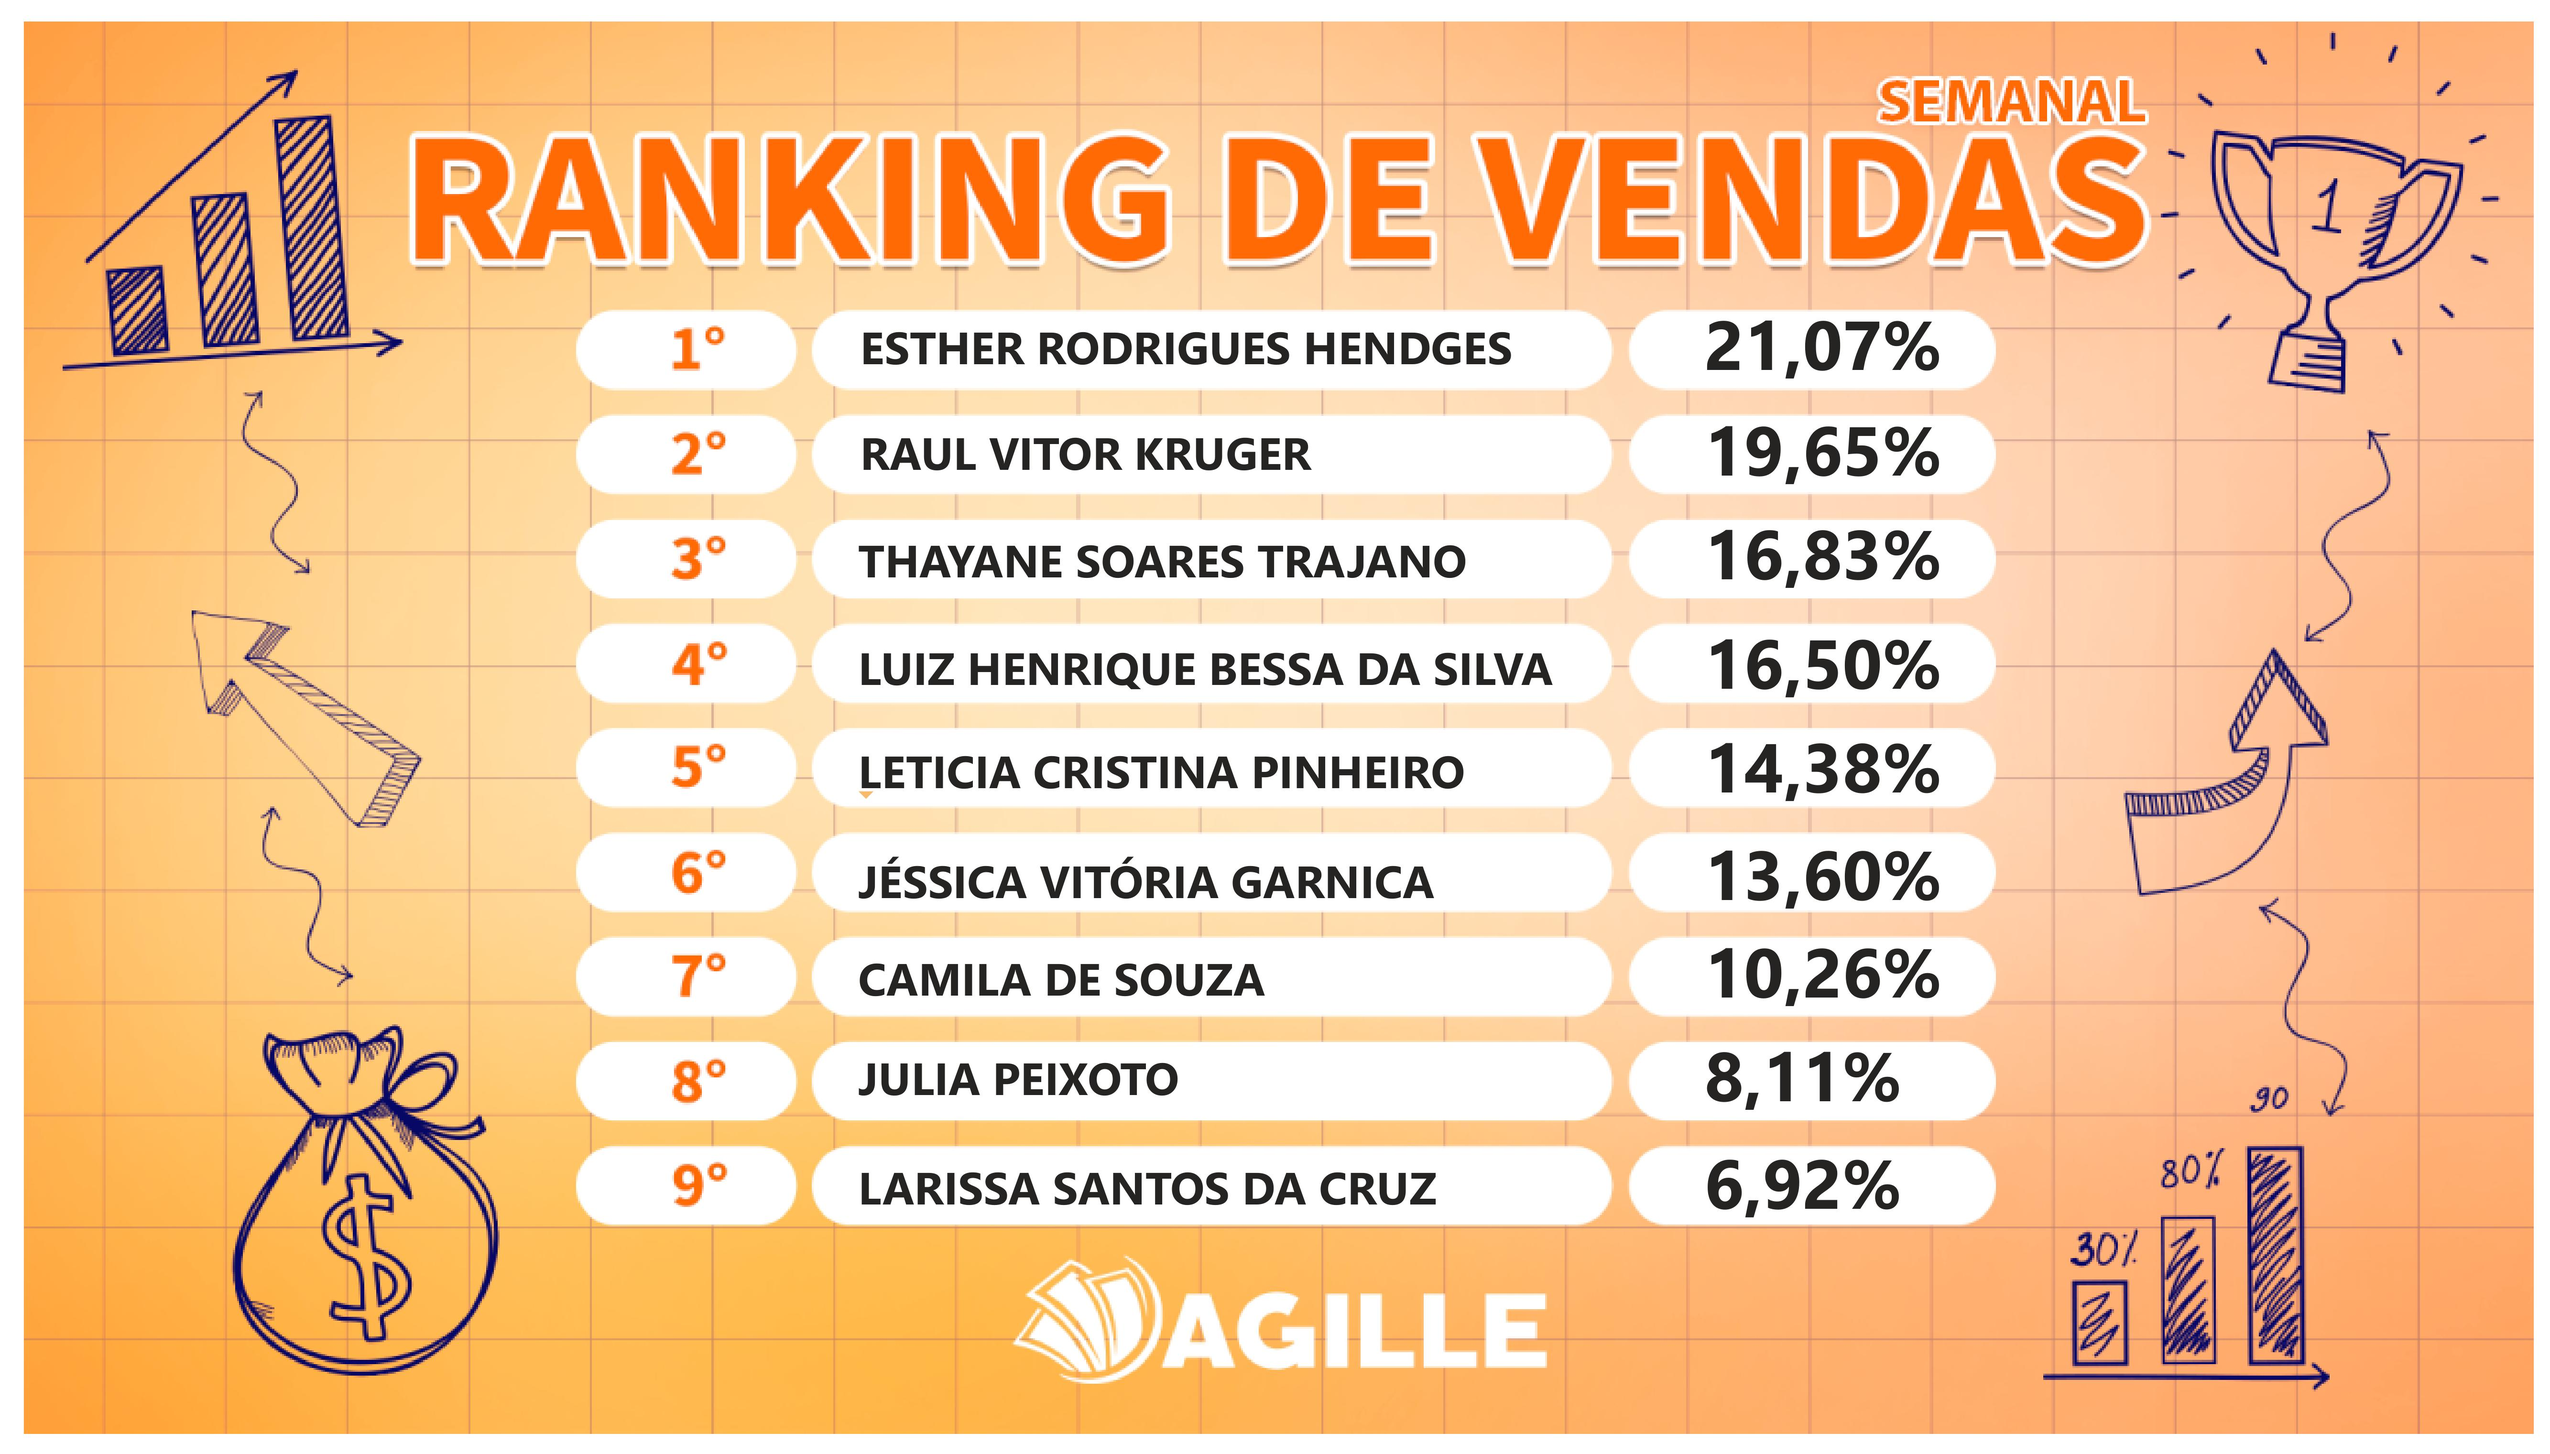
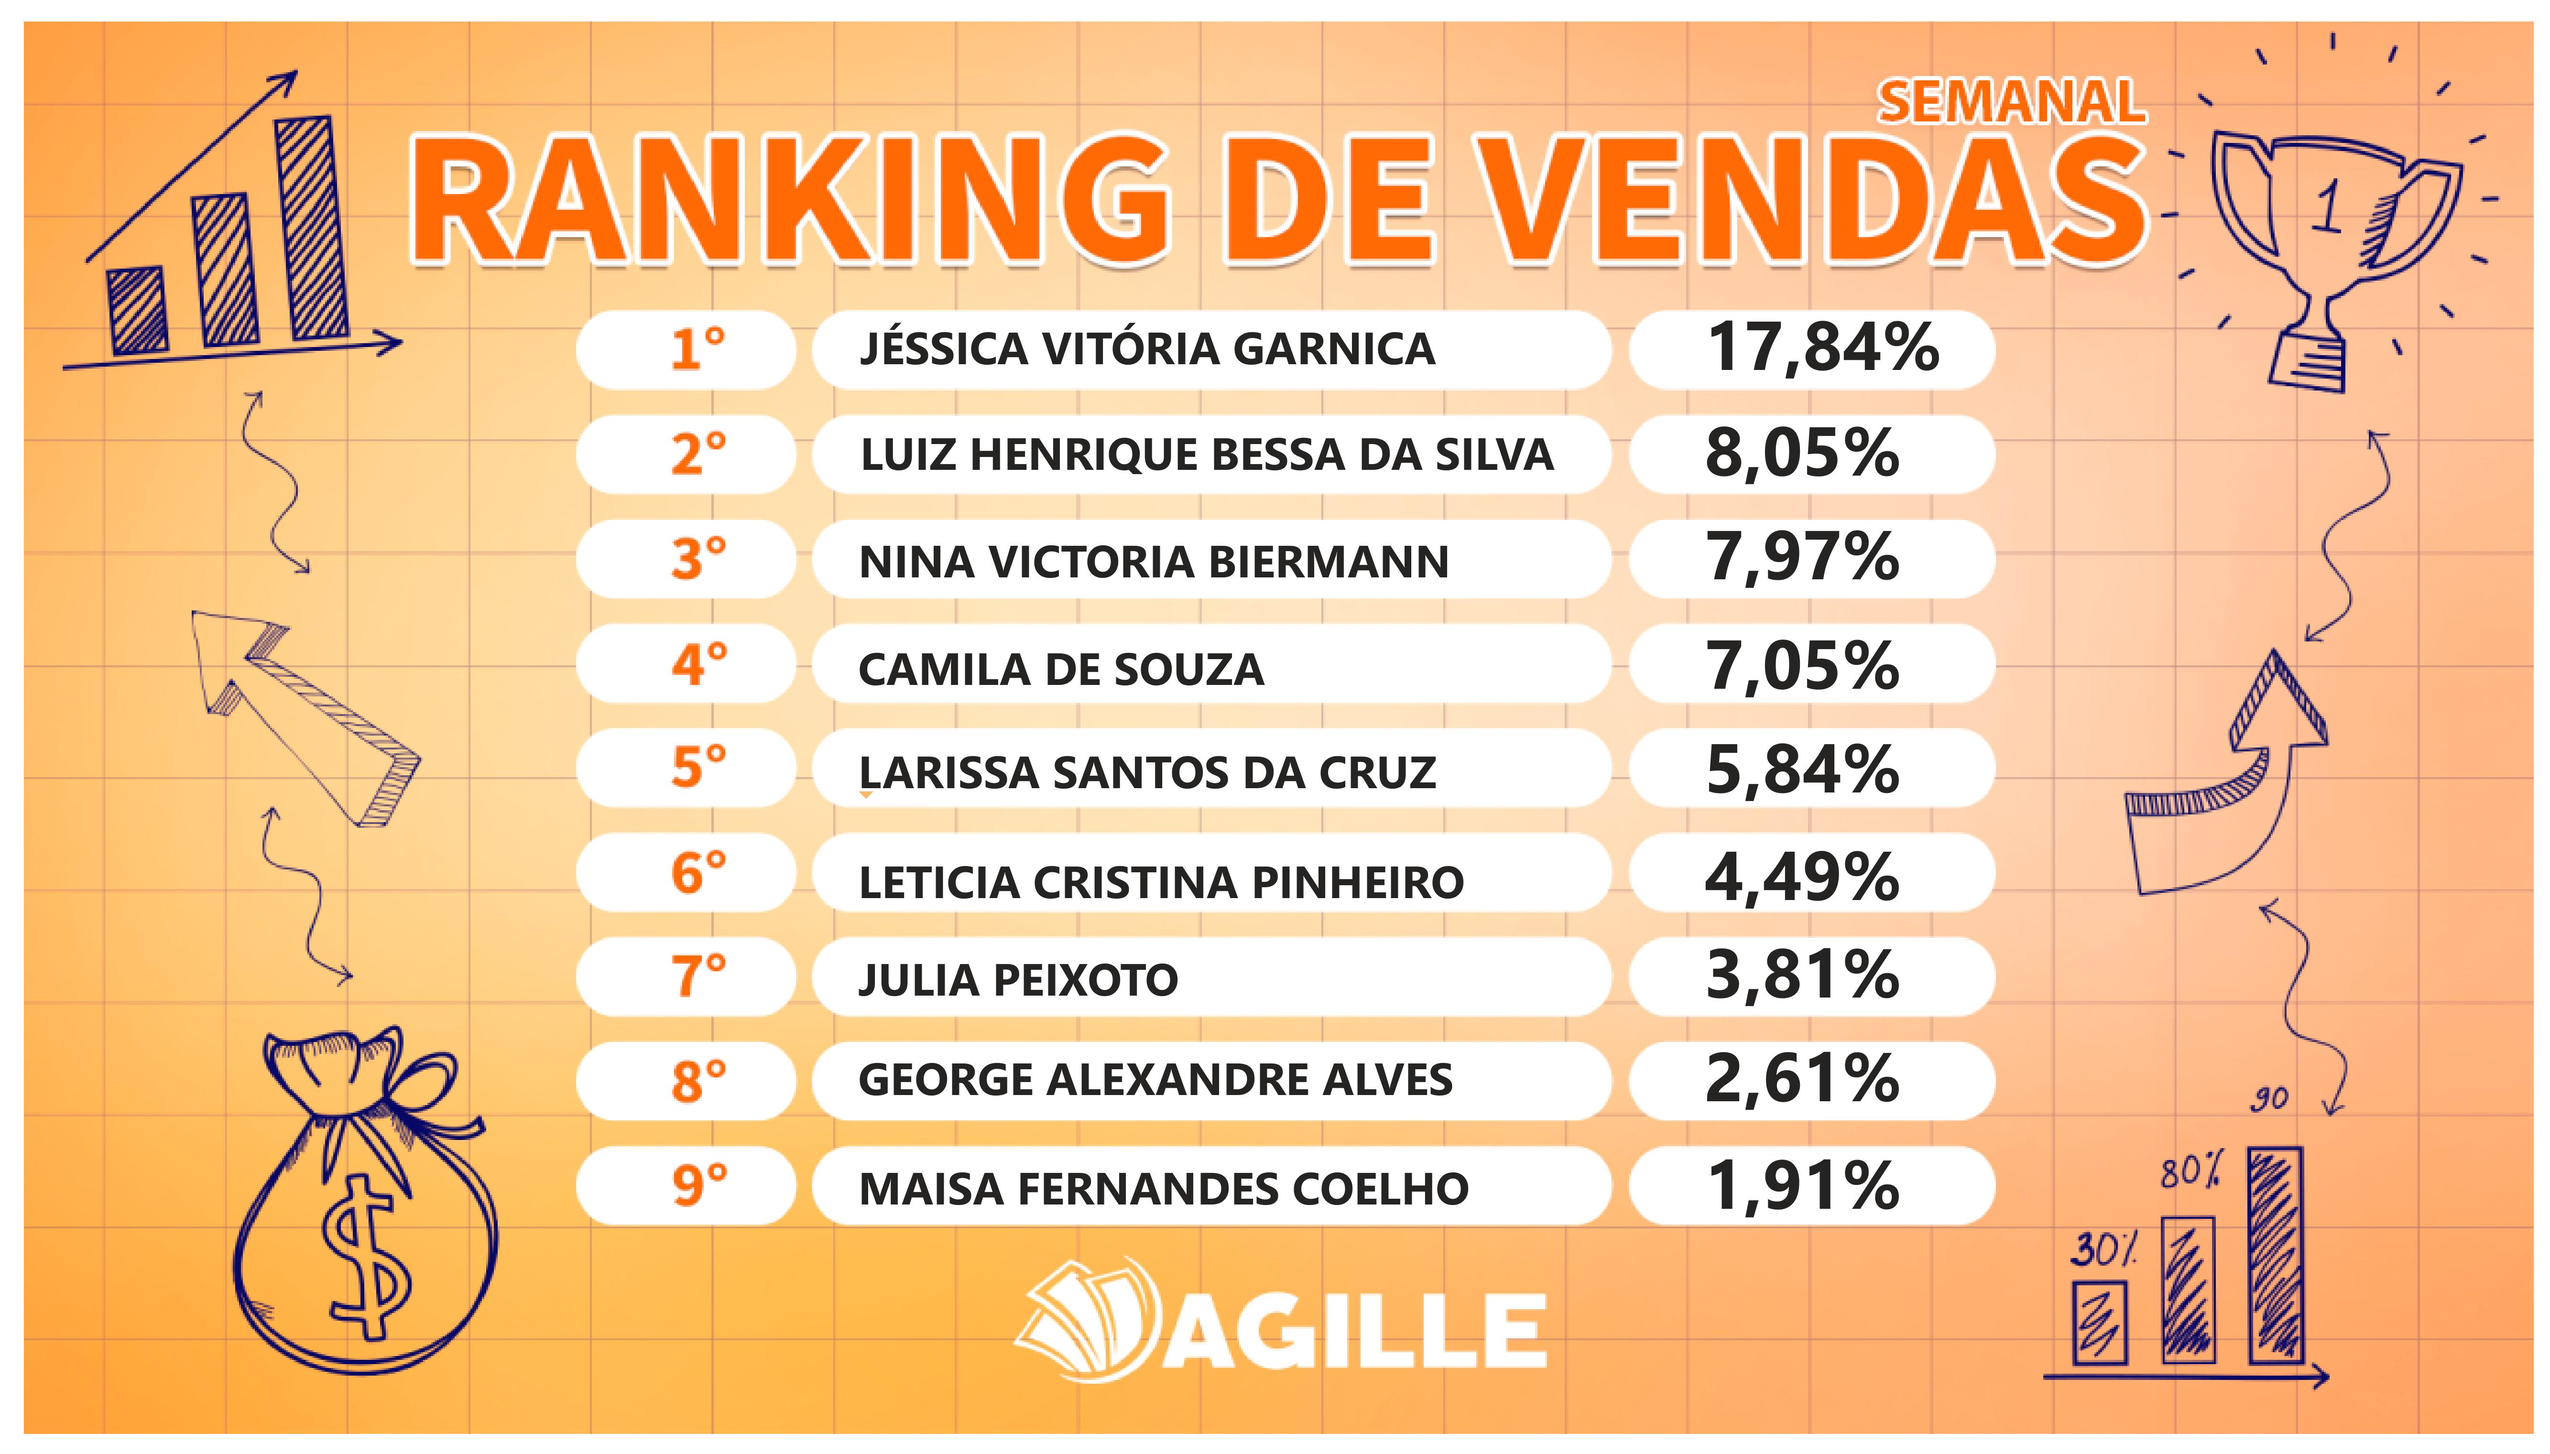
08052023¹

diff --git a/index.html b/index.html
@@ -28,9 +28,9 @@
 			<div class="carousel-item" data-bs-interval="15000">
 				<img src="img/logo.png" class="d-block w-100">
 			</div>
-			<!-- <div class="carousel-item" data-bs-interval="15000">
+			<div class="carousel-item" data-bs-interval="15000">
 				<img src="img/rank1.jpg" class="d-block w-100">
-			</div> -->
+			</div>
 			<div class="carousel-item" data-bs-interval="15000">
 				<img src="img/rank2.jpg" class="d-block w-100">
 			</div>
